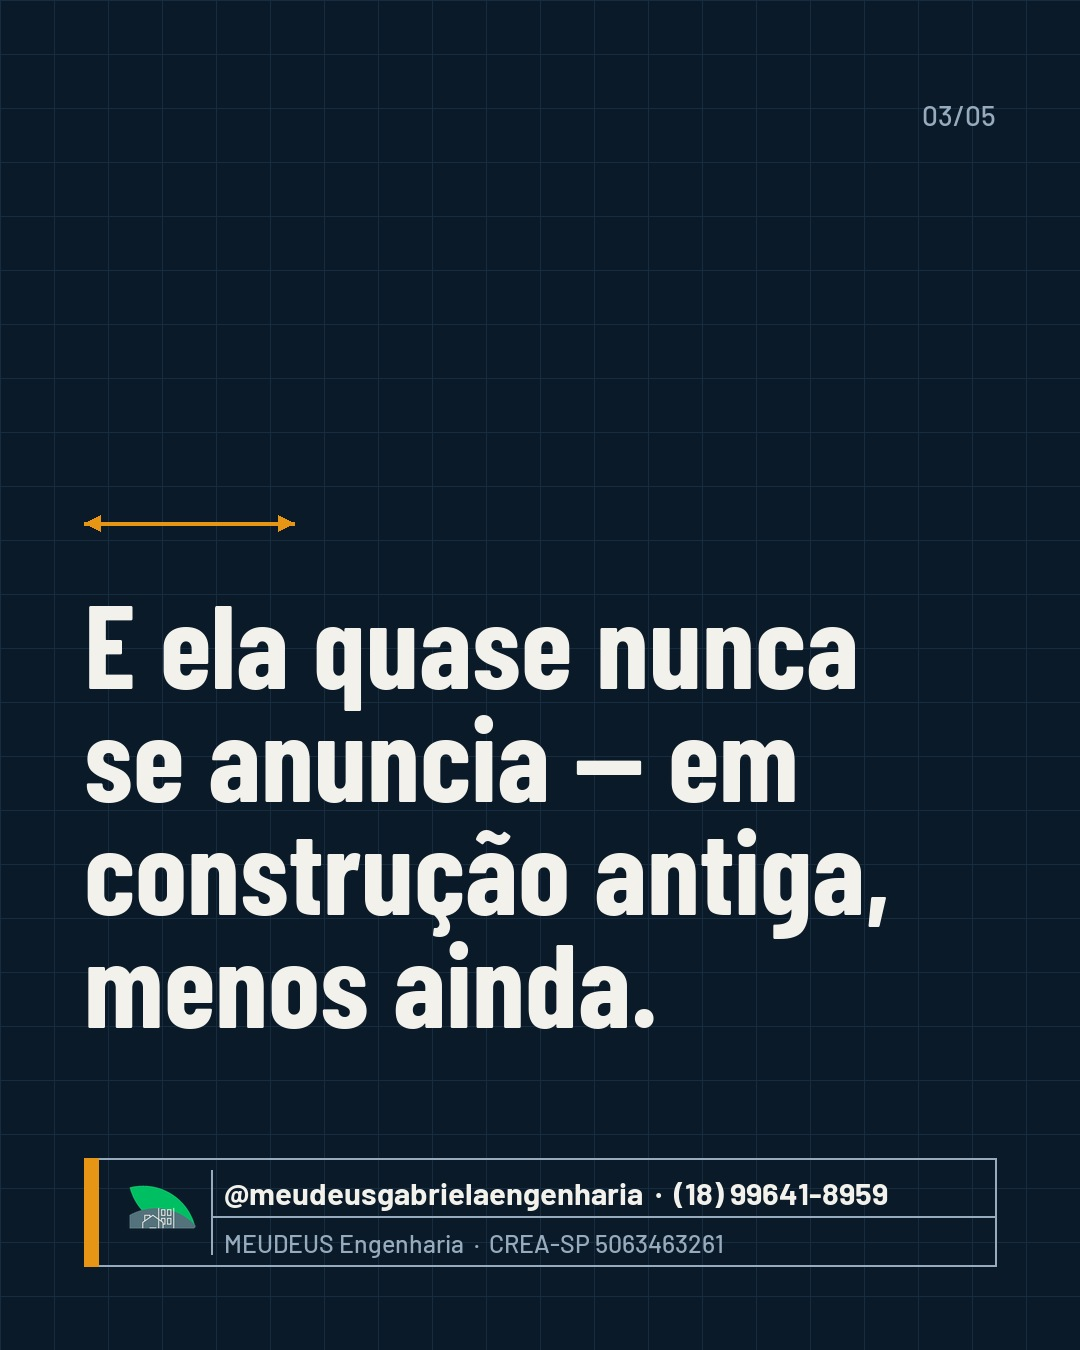
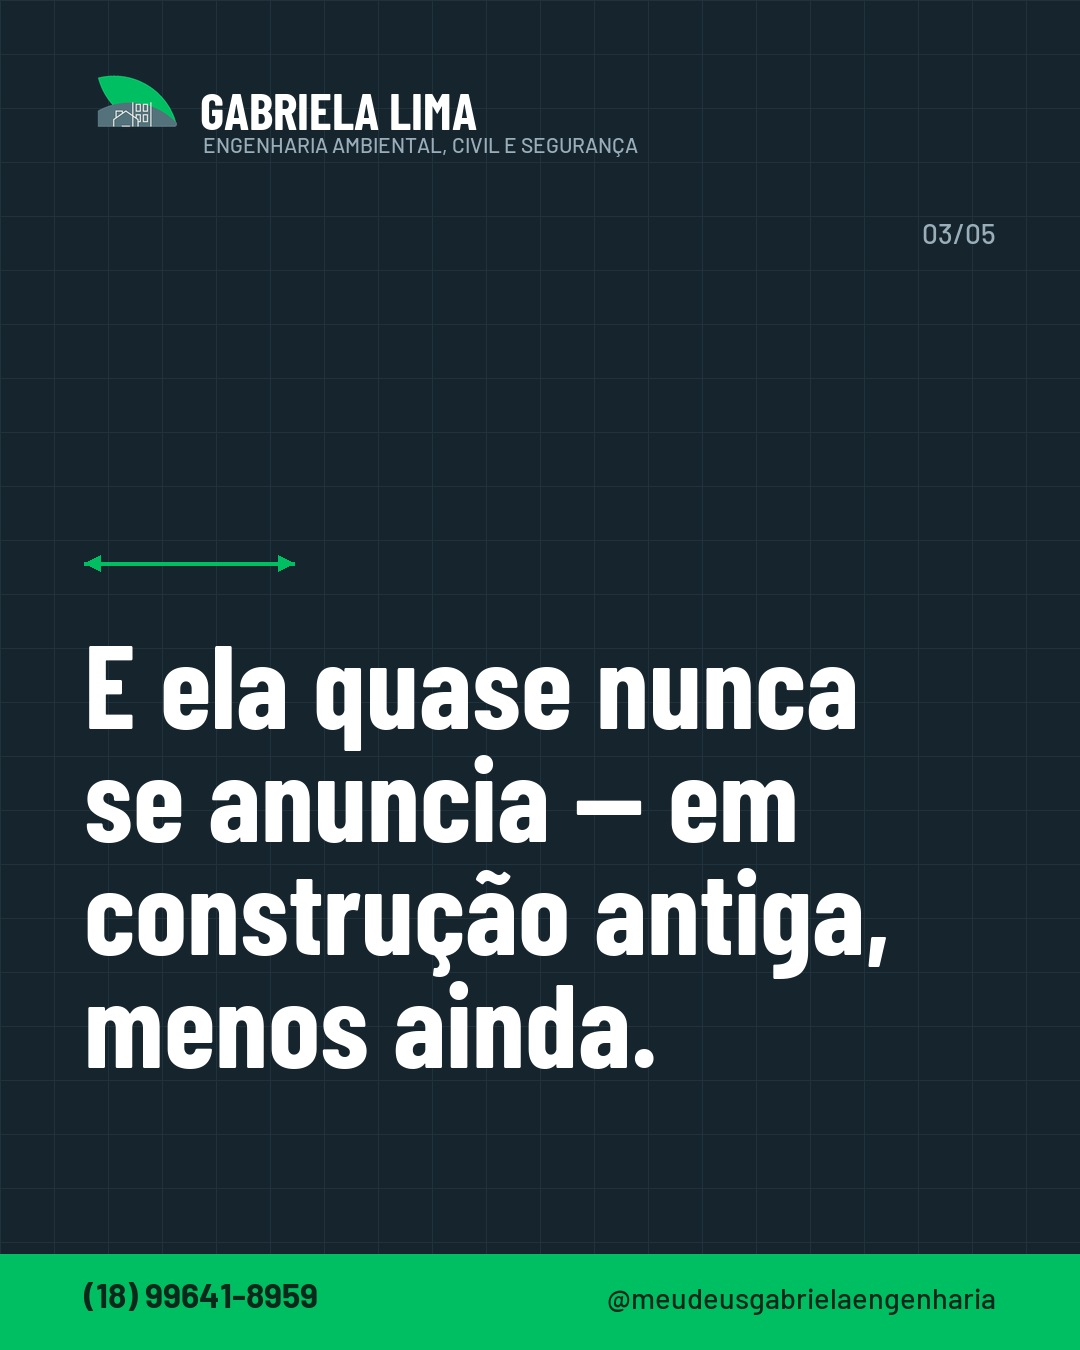
Identidade alinhada ao feed que ja existia, nao a que eu inventei
Li as 24 publicacoes do perfil pela API e corrigi tres erros meus: a marca e GABRIELA LIMA com a linha de especialidades, e aparece no topo da arte, nao escondida num carimbo no rodape; a cor e o verde da logo sobre fundo escuro, nao ambar sobre azul-marinho, que nao existe na identidade dela; e o rodape e uma barra verde com telefone e arroba, igual em todo post.

arte/marca.py concentra o lockup do topo e a barra de contato. kb/identidade.yaml corrigido: eu vinha usando MEUDEUS Engenharia como nome de marca, que e a razao social, nao o nome que o publico ve.

diff --git a/src/engenharia/arte/compor.py b/src/engenharia/arte/compor.py
@@ -25,7 +25,7 @@ from pathlib import Path
 from PIL import Image, ImageDraw
 
 from .. import config
-from . import composicoes
+from . import composicoes, marca
 from .paleta import (
     ALTURA,
     APOIO,
@@ -38,6 +38,7 @@ from .paleta import (
     PAPEL,
     TINTA,
     TITULO,
+    VERDE,
     fonte as _fonte,
 )
 
@@ -125,9 +126,11 @@ def _fundo_de_foto(caminho: Path) -> Image.Image:
 
 
 def _cabecalho(
-    desenho: ImageDraw.ImageDraw, etiqueta: str | None, indice: tuple[int, int] | None
+    desenho: ImageDraw.ImageDraw,
+    etiqueta: str | None,
+    indice: tuple[int, int] | None,
+    y: int = MARGEM,
 ) -> None:
-    y = MARGEM
     if etiqueta:
         fonte_etiqueta = _fonte(FORTE, 27)
         texto = etiqueta.upper()
@@ -182,34 +185,35 @@ def _tela(
         desenho = ImageDraw.Draw(imagem)
         _malha(desenho)
 
-    _cabecalho(desenho, etiqueta, indice)
+    topo_conteudo = marca.lockup(imagem, PAPEL, APOIO)
+    desenho = ImageDraw.Draw(imagem)
+    _cabecalho(desenho, etiqueta, indice, topo_conteudo)
 
-    base = ALTURA - MARGEM - ALTURA_CARIMBO - 46
+    base = ALTURA - marca.ALTURA_RODAPE - 54
     composicao = composicoes.TIPOS.get((visual or {}).get("tipo", ""))
+
+    inicio = topo_conteudo + (78 if etiqueta else 24)
 
     if composicao:
         # Com diagrama, o título é manchete curta no topo e a composição ocupa o corpo.
-        fim_titulo = _escrever_titulo(desenho, titulo, MARGEM + 100, MARGEM + 430, (70, 62, 54, 48))
+        fim_titulo = _escrever_titulo(desenho, titulo, inicio, inicio + 330, (70, 62, 54, 48))
         composicao(imagem, visual or {}, fim_titulo + 54, base)
     elif foto:
         # Sobre foto o texto desce para a faixa escurecida — nunca por cima do rosto.
-        topo_bloco = MARGEM + 150
         fonte_titulo = _fonte(TITULO, 92)
         linhas = []
         for pedaco in titulo.split("\n"):
             linhas += textwrap.wrap(pedaco, width=max(10, int(LARGURA * 2.05 / 92))) or [""]
         altura_total = int(92 * 0.96) * len(linhas)
-        _escrever_titulo(
-            desenho, titulo, max(topo_bloco, base - altura_total - 48), base, (92, 80, 70, 60)
-        )
+        _escrever_titulo(desenho, titulo, max(inicio, base - altura_total - 48), base, (92, 80, 70, 60))
     else:
-        topo_bloco = MARGEM + 150
         _escrever_titulo(
-            desenho, titulo, topo_bloco + max(0, (base - topo_bloco - 300) // 2), base,
+            desenho, titulo, inicio + max(0, (base - inicio - 300) // 2), base,
             (118, 104, 92, 80, 70, 60, 52),
         )
 
-    _carimbo(imagem, carimbo, sobre_foto=foto is not None)
+    marca.barra_contato(imagem)
+    _ = carimbo
     return imagem
 
 

diff --git a/src/engenharia/arte/marca.py b/src/engenharia/arte/marca.py
@@ -1,0 +1,63 @@
+"""Assinatura da marca: o lockup no topo e a barra de contato no rodapé.
+
+Reproduz o padrão que o próprio feed já estabeleceu — símbolo mais "GABRIELA LIMA" e a linha de
+especialidades no alto, barra com WhatsApp e @ embaixo. Os textos vêm de `kb/identidade.yaml`;
+nada aqui é escrito à mão no código.
+"""
+
+from __future__ import annotations
+
+from PIL import Image, ImageDraw
+
+from .. import config
+from .paleta import APOIO, CORPO, FORTE, LARGURA, MARGEM, TITULO, VERDE, fonte
+
+LOGO = config.RAIZ / "templates" / "logo.png"
+ALTURA_TOPO = 118
+ALTURA_RODAPE = 96
+
+
+def lockup(imagem: Image.Image, cor_nome, cor_linha) -> int:
+    """Símbolo + nome + especialidades, no topo. Devolve o y onde o conteúdo pode começar."""
+    desenho = ImageDraw.Draw(imagem)
+    perfil = config.identidade()
+    x = MARGEM
+    y = MARGEM - 14
+
+    if LOGO.exists():
+        logo = Image.open(LOGO).convert("RGBA")
+        logo.thumbnail((96, 96), Image.LANCZOS)
+        imagem.paste(logo, (x, y), logo)
+        x += logo.width + 20
+
+    desenho.text((x, y + 8), "GABRIELA LIMA", font=fonte(TITULO, 52), fill=cor_nome)
+    desenho.text(
+        (x + 3, y + 62),
+        "ENGENHARIA AMBIENTAL, CIVIL E SEGURANÇA",
+        font=fonte(CORPO, 21),
+        fill=cor_linha,
+    )
+    _ = perfil
+    return MARGEM + ALTURA_TOPO
+
+
+def barra_contato(imagem: Image.Image, sobre_claro: bool = False) -> None:
+    """Barra verde do rodapé, com telefone e @ — igual em todo post."""
+    desenho = ImageDraw.Draw(imagem)
+    contato = config.identidade()["contato"]
+    perfil = config.identidade()["perfil"]
+
+    altura = ALTURA_RODAPE
+    topo = imagem.height - altura
+    desenho.rectangle([0, topo, LARGURA, imagem.height], fill=VERDE)
+
+    fonte_tel = fonte(FORTE, 34)
+    fonte_arroba = fonte(CORPO, 29)
+    tinta = (12, 40, 26)
+
+    desenho.text((MARGEM, topo + 20), contato["telefone"], font=fonte_tel, fill=tinta)
+    arroba = perfil["handle"]
+    largura = desenho.textlength(arroba, font=fonte_arroba)
+    desenho.text((LARGURA - MARGEM - largura, topo + 26), arroba, font=fonte_arroba, fill=tinta)
+    _ = sobre_claro
+    _ = APOIO

diff --git a/src/engenharia/arte/paleta.py b/src/engenharia/arte/paleta.py
@@ -1,4 +1,9 @@
-"""Paleta, medidas e fontes da identidade visual. Fonte única para todas as composições."""
+"""Paleta, medidas e fontes da identidade visual.
+
+As cores **não foram inventadas**: saíram do feed que a responsável técnica já publicava e do SVG da
+marca. Verde sobre fundo escuro é o padrão dela; a marca aparece no topo, não escondida no rodapé;
+e o rodapé traz a barra de contato com WhatsApp e @, igual em todo post.
+"""
 
 from __future__ import annotations
 
@@ -11,11 +16,16 @@ from .. import config
 LARGURA, ALTURA = 1080, 1350  # 4:5, o formato que ocupa mais tela no feed
 MARGEM = 84
 
-TINTA = (10, 26, 40)  # azul de prancha, quase preto
-PAPEL = (243, 241, 236)  # off-white de papel técnico
-DESTAQUE = (230, 150, 20)  # âmbar de sinalização
-MALHA = (22, 44, 64)  # linhas da malha sobre a tinta
-APOIO = (150, 172, 190)
+TINTA = (22, 36, 46)  # fundo escuro do feed
+VERDE = (0, 191, 99)  # o verde da marca, tirado do SVG da logo
+PAPEL = (255, 255, 255)
+CREME = (242, 237, 228)
+APOIO = (154, 174, 186)
+GRAFITE = (65, 81, 87)  # cinza da marca, para uso sobre fundo claro
+
+# Mantidos por compatibilidade com composições que ainda citam os nomes antigos.
+DESTAQUE = VERDE
+MALHA = (32, 50, 62)
 
 FONTES = config.RAIZ / "templates" / "fontes"
 TITULO = FONTES / "BarlowCondensed-Bold.ttf"
